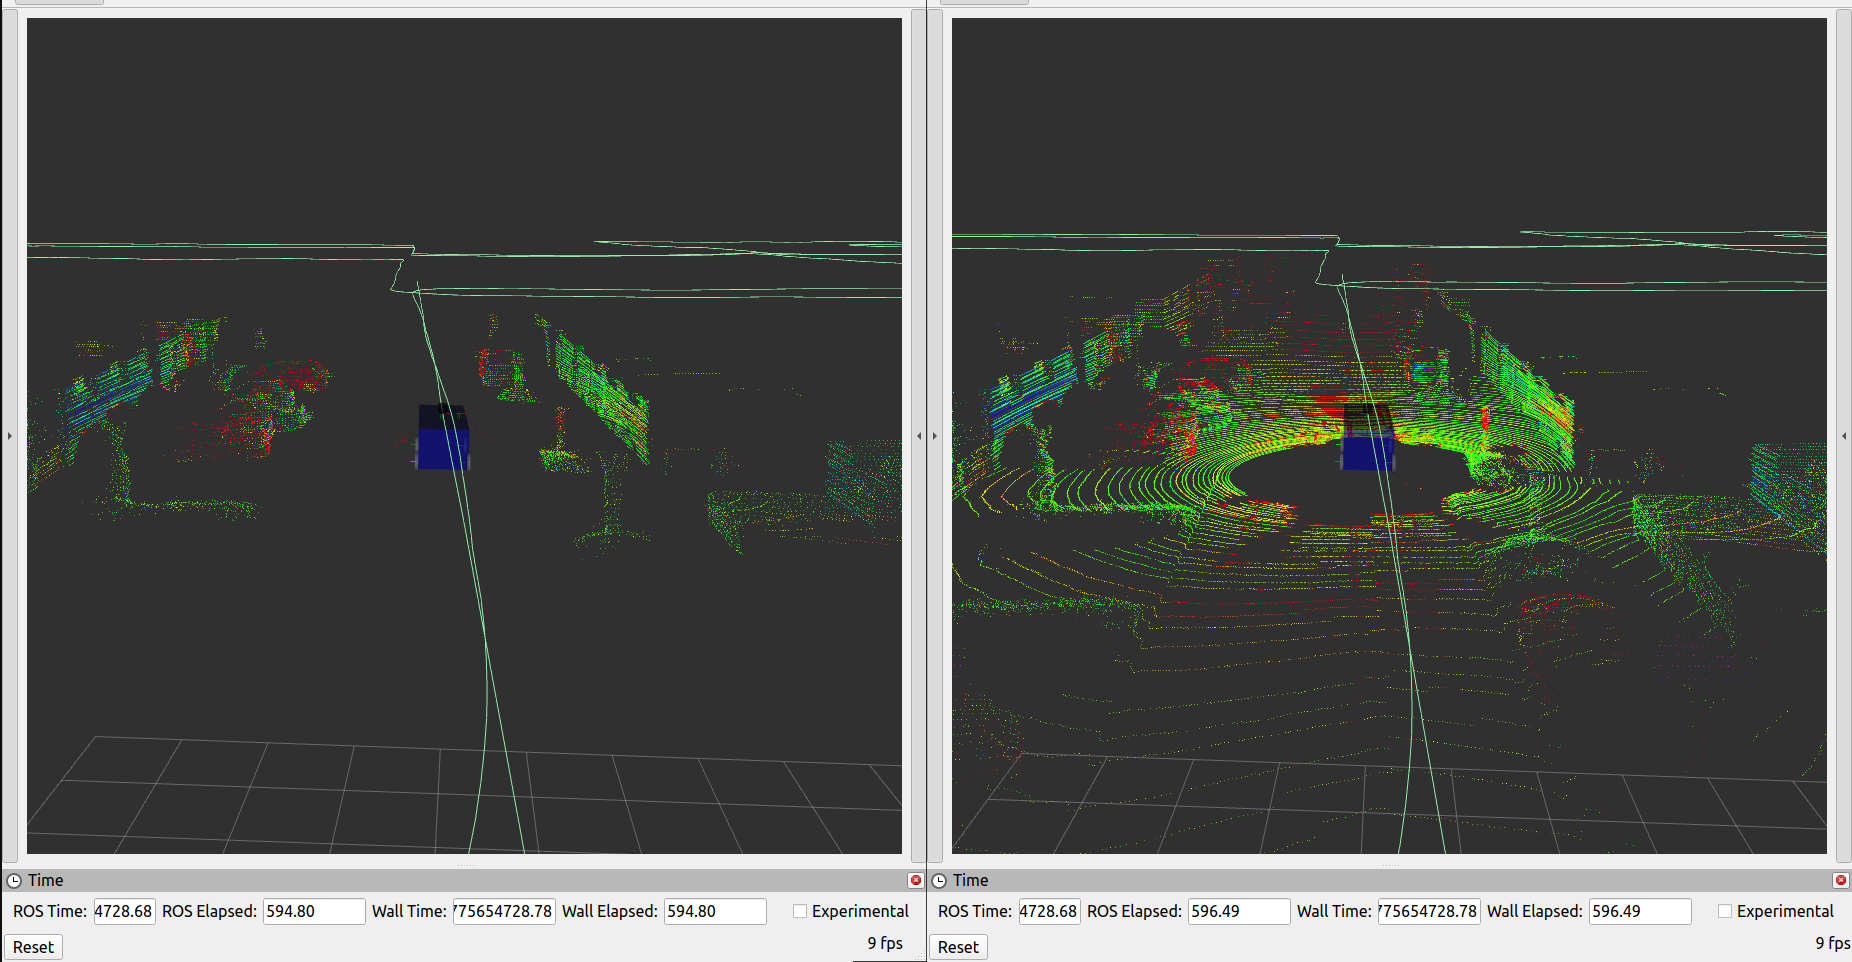
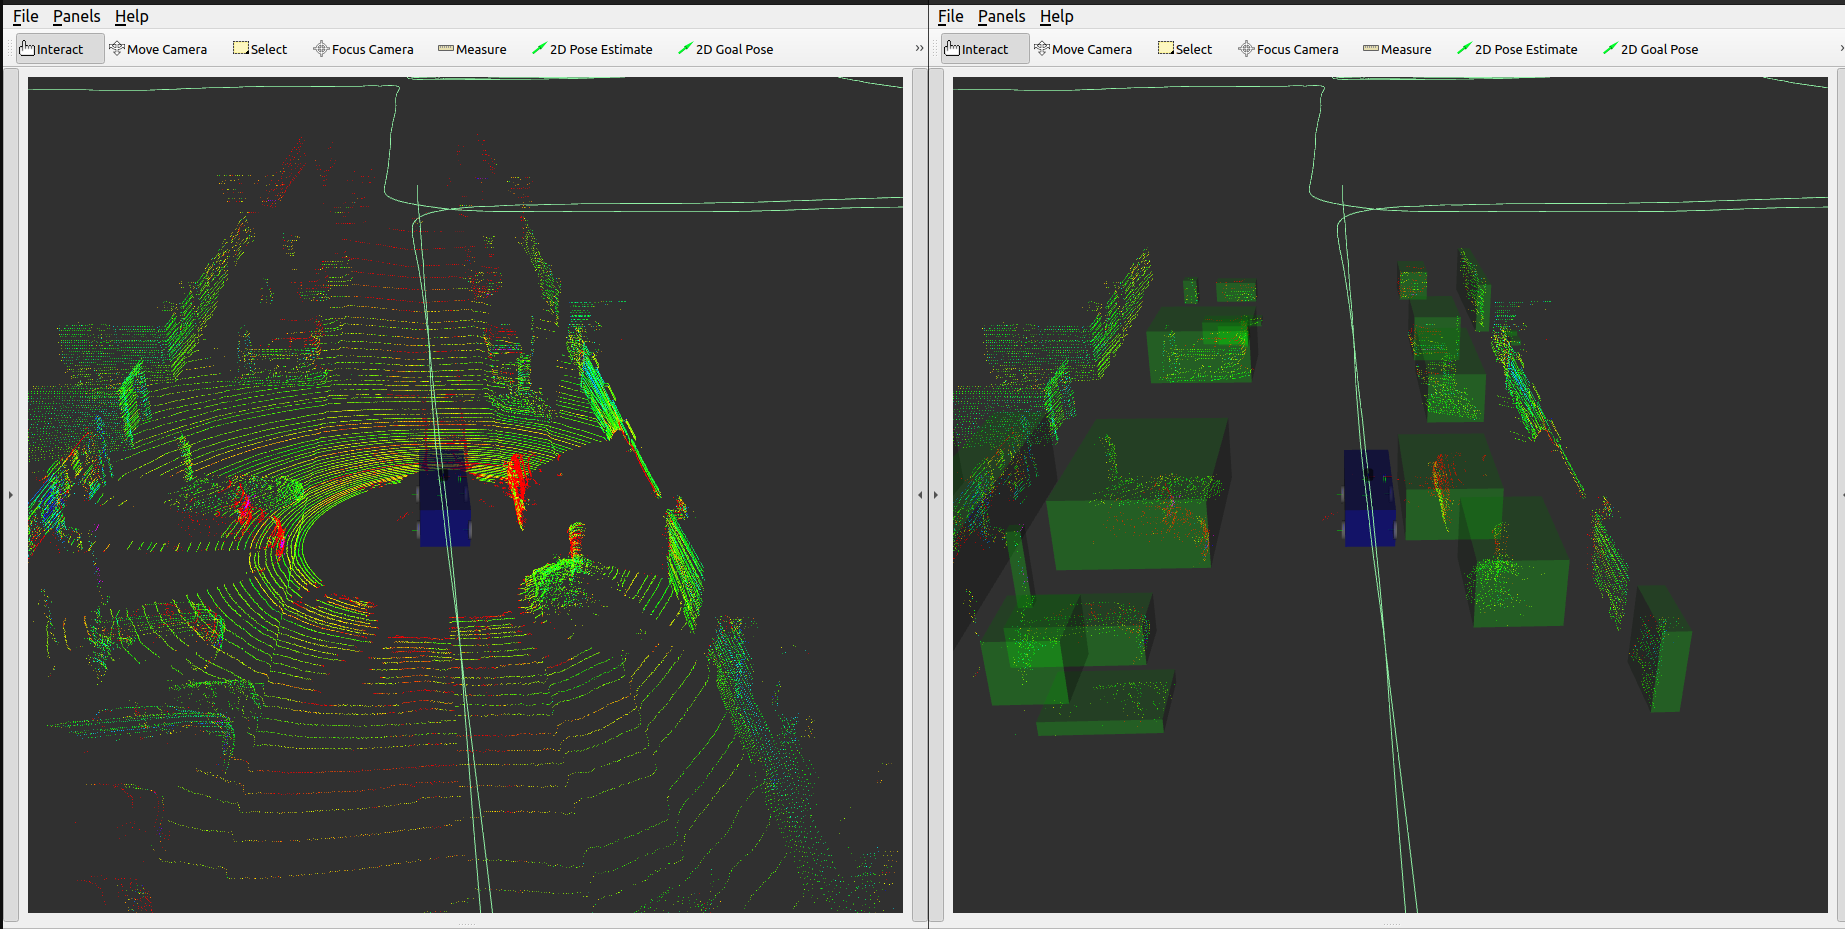
Update visuals

Changed region(s): [[0.0, 0.0, 1.0, 1.0], [0.8959, 0.6555, 0.9268, 0.7804], [0.4016, 0.7804, 0.4325, 0.8428]]

diff --git a/src/camera_processing/src/camera_processing.cpp b/src/camera_processing/src/camera_processing.cpp
@@ -308,18 +308,18 @@ public:
                 avg_frame_total_time,
                 avg_num_detections);
 
-            RCLCPP_INFO(this->get_logger(), "Average Frame processing metrics over last %d frames: Buffer Age: %.2f ms, Conversion Time: %.2f ms, Inference Time: %.2f ms, Publish Time: %.2f ms, Overlay Time: %.2f ms, Frame Total Time: %.2f ms, Average Number of Detections: %0.2f, Total Received Frames: %ld, Total Processed Frames: %ld, Total Overwritten Frames: %ld",
-                        profiling_interval_frames_,
-                        avg_buffer_time,
-                        avg_conversion_time,
-                        avg_inference_time,
-                        avg_publish_time,
-                        avg_overlay_time,
-                        avg_frame_total_time,
-                        avg_num_detections,
-                        total_received_frames_,
-                        total_processed_frames_,
-                        total_overwritten_frames_);
+            // RCLCPP_INFO(this->get_logger(), "Average Frame processing metrics over last %d frames: Buffer Age: %.2f ms, Conversion Time: %.2f ms, Inference Time: %.2f ms, Publish Time: %.2f ms, Overlay Time: %.2f ms, Frame Total Time: %.2f ms, Average Number of Detections: %0.2f, Total Received Frames: %ld, Total Processed Frames: %ld, Total Overwritten Frames: %ld",
+            //             profiling_interval_frames_,
+            //             avg_buffer_time,
+            //             avg_conversion_time,
+            //             avg_inference_time,
+            //             avg_publish_time,
+            //             avg_overlay_time,
+            //             avg_frame_total_time,
+            //             avg_num_detections,
+            //             total_received_frames_,
+            //             total_processed_frames_,
+            //             total_overwritten_frames_);
 
             // Reset the counters for the next interval
             interval_frame_count_ = 0;

diff --git a/src/lidar_processing/src/lidar_processing.cpp b/src/lidar_processing/src/lidar_processing.cpp
@@ -515,14 +515,13 @@ public:
         visualization_msgs::msg::MarkerArray marker_array;
         marker_array.markers.reserve(cluster_boxes.size());
 
-        const double marker_lifetime_seconds = processing_rate_ > 0.0 ? (2.0 / processing_rate_) : 0.2;
-
         for (std::size_t cluster_index = 0; cluster_index < cluster_boxes.size(); ++cluster_index)
         {
             const auto &cluster_box = cluster_boxes[cluster_index];
 
             visualization_msgs::msg::Marker marker;
             marker.header = header;
+            marker.header.stamp = rclcpp::Time(0);
             marker.ns = "lidar_detection_boxes";
             marker.id = static_cast<int>(cluster_index);
             marker.type = visualization_msgs::msg::Marker::CUBE;
@@ -541,7 +540,7 @@ public:
             marker.color.g = 1.0f;
             marker.color.b = 0.0f;
             marker.color.a = 0.25f;
-            marker.lifetime = rclcpp::Duration::from_seconds(marker_lifetime_seconds);
+            marker.lifetime = rclcpp::Duration::from_seconds(0.0);
             marker.frame_locked = false;
             marker_array.markers.push_back(marker);
         }
